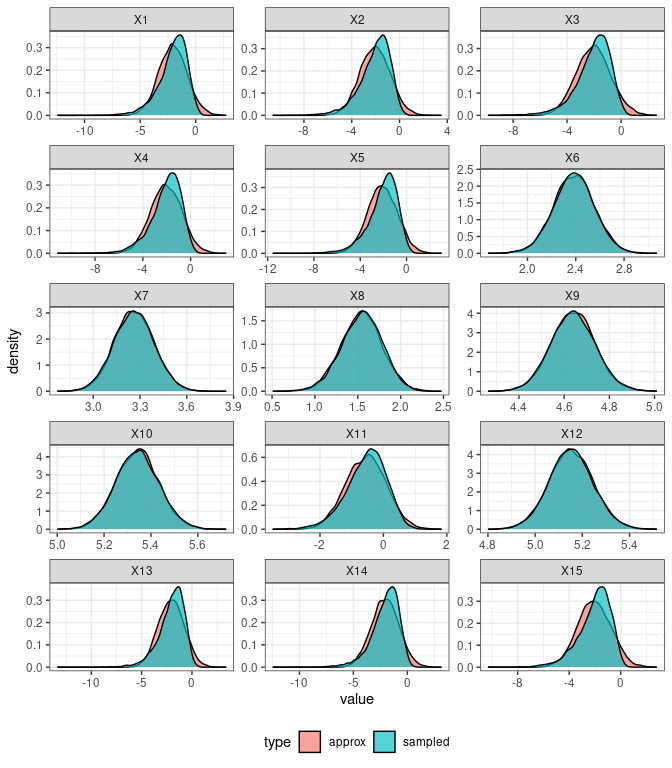
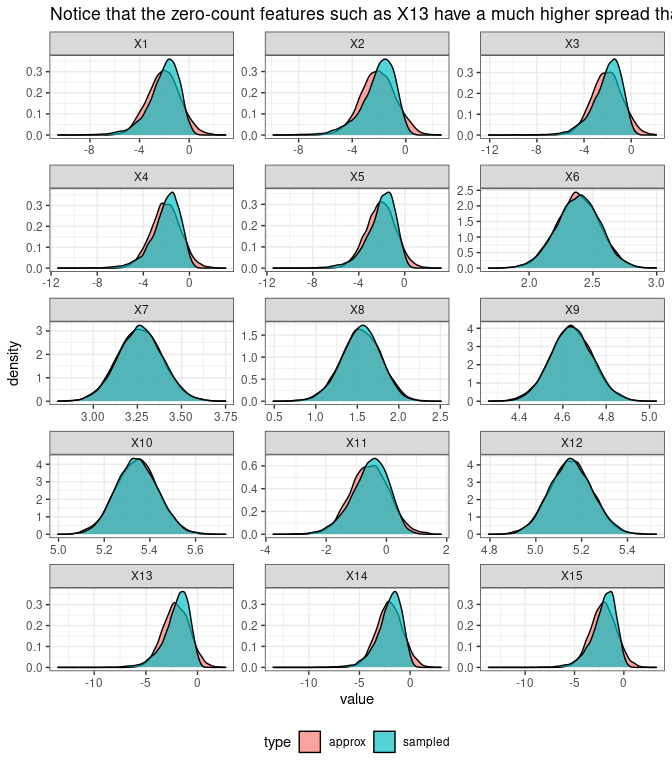
clarity update

diff --git a/README.md b/README.md
@@ -34,12 +34,13 @@ knitr::kable(t(data.frame("observed" =
 
 |              |      mean |        sd |
 |:-------------|----------:|----------:|
-| observed     | -8.645562 | 0.0849585 |
+| observed     | -8.644919 | 0.0857300 |
 | approximated | -8.645706 | 0.0859221 |
 
 ``` r
 #Overlaid:
-plot(density(sampleGeomMeam(samples = 10000, count_sample = data, log_transformed = T)), col = "red")
+plot(density(sampleGeomMeam(samples = 10000, count_sample = data, log_transformed = T)), 
+     col = "red", main = "Comparing the sampled geometric mean (red)\n to the approximated distribution (black)")
 
 lines(density(sampleGeomMeanApprox(samples = 10000, count_sample = data, log_transformed = T)))
 ```
@@ -66,8 +67,6 @@ b = sampleCLRApprox(samples = 10000, data) %>%
   filter(name %in% paste0("X", 1:20)) %>%
   mutate(type = "approx")
 
-#Notice that the zero-count features such as X13 have a much higher spread than high rollers like X7
-
 rbind(a, b) %>%
   filter(name %in% paste0("X", 1:15)) %>%
 
@@ -80,7 +79,8 @@ rbind(a, b) %>%
   
   facet_wrap(~name, scales = "free", ncol = 3) +
   theme_bw() +
-  theme(legend.position = 'bottom')
+  theme(legend.position = 'bottom') + 
+  ggtitle("Notice that the zero-count features such as X13 have a much higher spread than high rollers like X7")
 ```
 
 <img src="README_files/figure-gfm/comparing CLR to approx-1.png" width="100%" />
